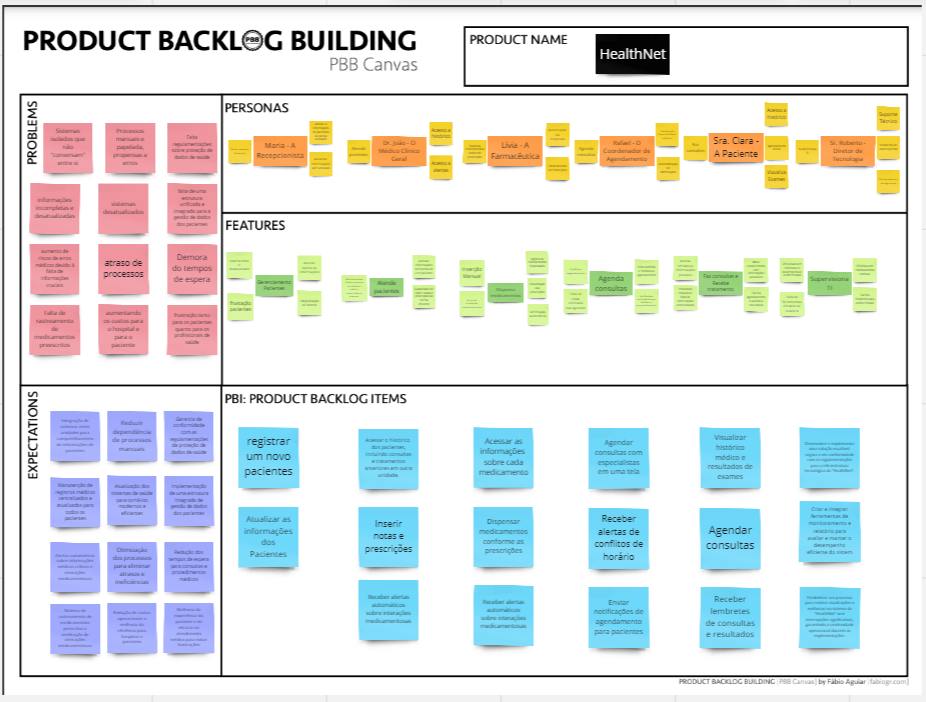
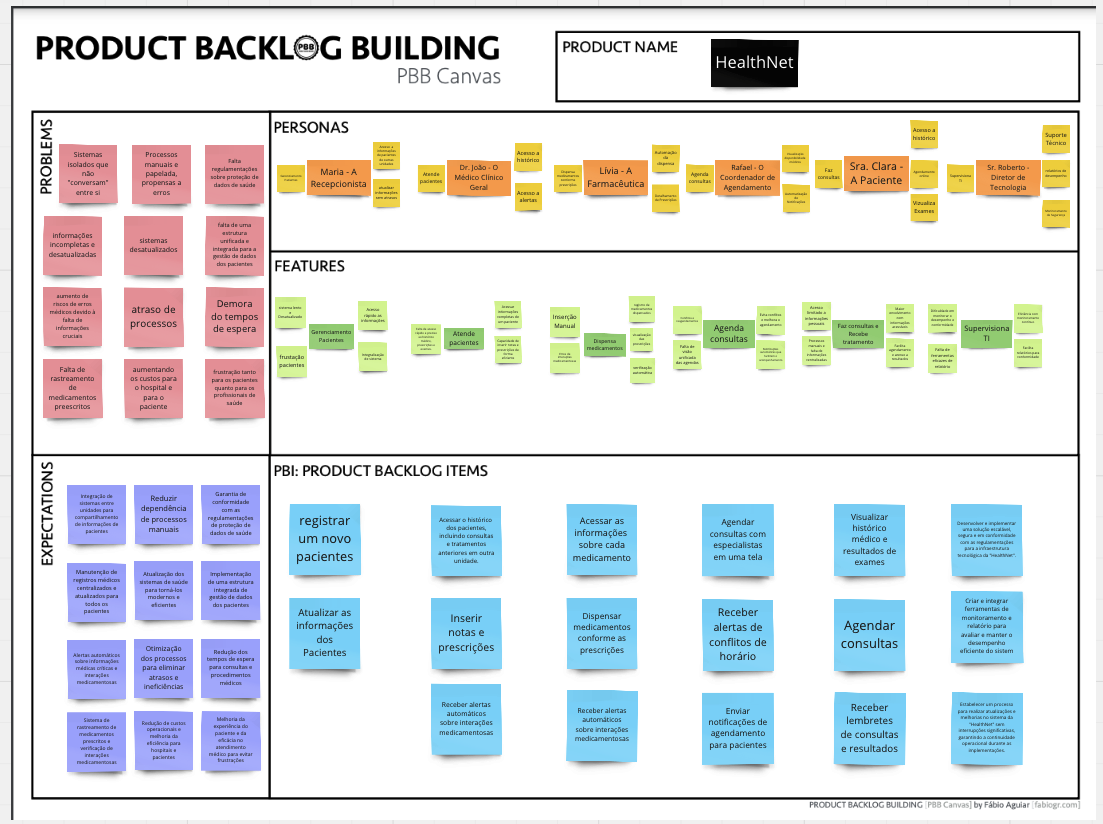
fix: atualização pbb pra imagem

Changed region(s): [[0.0, 0.0, 0.9978, 0.9872], [0.4838, 0.5983, 0.6048, 0.9274]]

diff --git a/docs/pbb_heatnet.md b/docs/pbb_heatnet.md
@@ -1,133 +1,24 @@
 # Exercício de Construção de Backlog de Produto usando PBB (Product Backlog Building)
 
-Este documento constitui a documentação oficial da atividade de Product Backlog Building (PBB), orientada pelo Prof. Dr. George Marsicano. No cenário do desenvolvimento ágil de software, o PBB destaca-se como uma abordagem sistemática para criar e aprimorar o Backlog de Produto, garantindo sua alinhamento preciso com as necessidades do negócio e dos usuários finais. 
+Este documento constitui a documentação oficial da atividade de Product Backlog Building (PBB), orientada pelo Prof. Dr. George Marsicano. 
+
 A atividade se baseia em um estudo de caso focado na "HealthNet", uma extensa rede de clínicas e hospitais enfrentando desafios significativos em sua operação diária. Ao longo desta atividade, foram explorados os desafios enfrentados pelas diversas personas da "HealthNet", assim como suas expectativas e necessidades. Essas informações foram empregadas para definir e priorizar os itens do backlog, visando o desenvolvimento de uma visão holística do produto, compreendendo tanto o panorama técnico quanto as nuances humanas por trás dele.
 
-## Nome do Produto: HealthNet
 
-## Problemas: 
+![Alt text](assets/pbb.png)
 
-- Sistemas isolados que não "conversam" entre si  
-- Processos manuais e papelada, propensas a erros  
-- Falta regulamentações sobre proteção de dados de saúde  
-- Falta de uma estrutura unificada e integrada para a gestão de dados dos pacientes  
-- Informações incompletas e desatualizadas  
-- Sistemas desatualizados  
-- Atraso de processos  
-- Demora do tempos de espera  
-- Aumento de riscos de erros médicos devido à falta de informações cruciais  
-- Aumentando os custos para o hospital e para o paciente  
-- Frustração tanto para os pacientes quanto para os profissionais de saúde  
-- Falta de rastreamento de medicamentos preescritos  
+Devido a dificuldade de visualização, abaixo segue os fragmentos do Product Backlog BuilDing
+![Alt text](assets/problemas.png)
 
-## Expectativas:
-- Integração de sistemas entre unidades para compartilhamento de informações de pacientes
-- Redução da dependência de processos manuais
-- Garantia de conformidade com as regulamentações de proteção de dados de saúde
-- Atualização dos sistemas de saúde para torná-los modernos e eficientes
-- Implementação de uma estrutura integrada de gestão de dados dos pacientes
-- Manutenção de registros médicos centralizados e atualizados para todos os pacientes
-- Otimização dos processos para eliminar atrasos e ineficiências
-- Redução dos tempos de espera para consultas e procedimentos médicos
-- Alertas automáticos sobre informações médicas críticas e interações medicamentosas
-- Redução de custos operacionais e melhoria da eficiência para hospitais e pacientes
-- Melhoria da experiência do paciente e da eficácia no atendimento médico para evitar frustrações
-- Sistema de rastreamento de medicamentos prescritos e verificação de interações medicamentosas
+![Alt text](assets/peersonasFeatures.png)
 
-## Personas:
+![Alt text](assets/expectativas.png)
 
-**O que faz (O que a persona faz hoje):** Gerenciamento Pacientes
-**Persona: Maria - A Recepcionista**
-**O que espera (Algo que a persona quer fazer com o produto.):** Acesso  a informações de pacientes de outras unidades / Atualizar informações sem atrasos  
-
-**O que faz (O que a persona faz hoje):** Atende pacientes  
-**Persona:** **Dr. João - O Médico Clínico Geral**  
-**O que espera (Algo que a persona quer fazer com o produto.):** Acesso a histórico / Acesso a alertas  
-
-**O que faz (O que a persona faz hoje):** Dispensa medicamentos conforme prescrições  
-**Persona:** **Lívia - A Farmacêutica**  
-**O que espera (Algo que a persona quer fazer com o produto.):** Automação da dispensa / Detalhamento de Prescrições  
-
-**O que faz (O que a persona faz hoje):** Agenda consultas  
-**Persona:** **Rafael - O Coordenador de Agendamento**  
-**O que espera (Algo que a persona quer fazer com o produto.):** Visualização disponibilidade médicos / Automatização de Notificações   
-
-**O que faz (O que a persona faz hoje):** Faz consultas  
-**Persona:** **Sra. Clara - A Paciente**  
-**O que espera (Algo que a persona quer fazer com o produto.):** Acesso a histórico / Agendamento online / Visualiza Exames  
-
-**O que faz (O que a persona faz hoje):** Supervisiona TI  
-**Persona:** **Sr. Roberto - Diretor de Tecnologia**  
-**O que espera (Algo que a persona quer fazer com o produto.):** Suporte Técnico / Relatórios de Desempenho / Monitoramento de Segurança
+![Alt text](assets/pbi.png)
 
 
-## Features: 
-
-Maria - A Recepcionista
-Problemas: Sistema lento e Desatualizado  / Frustação pacientes  
-Funcionalidade: Gerenciamento Pacientes  
-Beneficios: Acesso rápido as informações / Integralização de sistema  
-
-Dr. João - O Médico Clínico Geral
-Problemas: Falta de acesso rápido e preciso ao histórico médico, prescrições e exames.  
-Funcionalidade: Atende pacientes  
-Beneficios: Acessar informações completas de um paciente  / Capacidade de inserir notas e prescrições de forma eficiente  
-
-Lívia - A Farmacêutica
-Problemas: Inserção Manual / Erros de interações medicamentosas  
-Funcionalidade: Dispensa medicamentos  
-Beneficios: Registro de medicamentos dispensados / Visualização das prescrições / Verificação automática  
-
-Rafael - O Coordenador de Agendamento
-Problemas: Conflitos e reagendamentos / Falta de visão unificada das agendas  
-Funcionalidade: Agenda consultas  
-Beneficios: Evita conflitos e melhora o agendamento / Notificações automáticas que facilitam o acompanhamento  
-
-Sra. Clara - A Paciente
-Problemas: Acesso limitado a informações pessoais / Processos manuais e falta de informações centralizadas  
-Funcionalidade: Faz consultas e Recebe tratamento  
-Beneficios: Maior envolvimento com informações acessíveis / Facilita agendamento e acesso a resultados  
-
-Sr. Roberto - Diretor de Tecnologia
-Problemas: Dificuldade em monitorar o desempenho e conformidade / Falta de ferramentas eficazes de relatório  
-Funcionalidade: Supervisiona TI  
-Beneficios: Eficiência com monitoramento contínuo / Facilita relatórios para conformidade 
 
 ## PBI
-
-Maria - A Recepcionista
-- Registrar um novo pacientes  
-- Atualizar as informações dos Pacientes
-
-Dr. João - O Médico Clínico Geral
-- Acessar o histórico  dos pacientes, incluindo consultas e tratamentos anteriores em outra unidade.  
-- Inserir notas e prescrições  
-- Receber alertas automáticos sobre interações medicamentosas  
-
-Lívia - A Farmacêutica
-- Acessar as informações  sobre cada medicamento  
-- Dispensar medicamentos conforme as prescrições  
-- Receber alertas automáticos sobre interações medicamentosas  
-
-Rafael - O Coordenador de Agendamento
-- Agendar consultas com especialistas em uma tela  
-- Receber alertas de conflitos de horário  
-- Enviar notificações de agendamento para pacientes  
-
-Sra. Clara - A Paciente
-- Visualizar histórico médico e resultados de exames  
-- Agendar consultas  
-- Receber lembretes de consultas e resultados  
-
-Sr. Roberto - Diretor de Tecnologia
-- Desenvolver e implementar uma solução escalável, segura e em conformidade com as regulamentações para a infraestrutura tecnológica da "HealthNet".  
-- Criar e integrar ferramentas de monitoramento e relatório para avaliar e manter o desempenho eficiente do sistem  
-- Estabelecer um processo para realizar atualizações e melhorias no sistema da "HealthNet" sem interrupções significativas, garantindo a continuidade operacional durante as implementações. 
-
-## [Link do MIRO](https://miro.com/app/board/uXjVMmS3Ge8=/)
-
-<iframe width="768" height="432" src="https://miro.com/app/board/uXjVMmS3Ge8=/?moveToWidget=3458764569098248326&cot=14" frameborder="0" scrolling="no" allow="fullscreen; clipboard-read; clipboard-write" allowfullscreen></iframe>
-
 
 ## User Stories e Critérios de Aceitação
 | User Story | Critérios de Aceitação | Cenário BDD |
@@ -165,4 +56,5 @@ Sr. Roberto - Diretor de Tecnologia
 | Data       | Versão | Modificação                                                           | Autor                                                              |
 | :--------- | :----- | :-------------------------------------------------------------------- | :----------------------------------------------------------------- |
 | 22/11/2023 | 1.0    | Criação do documento                                                  | Breno e Maria Luisa |
+
 
